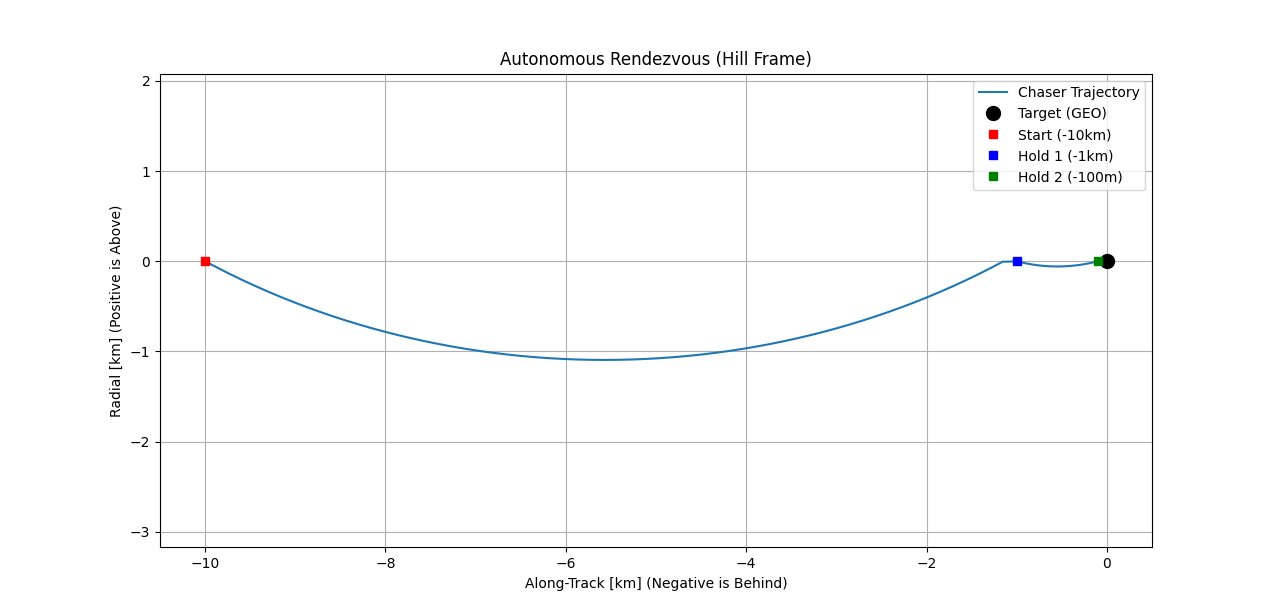
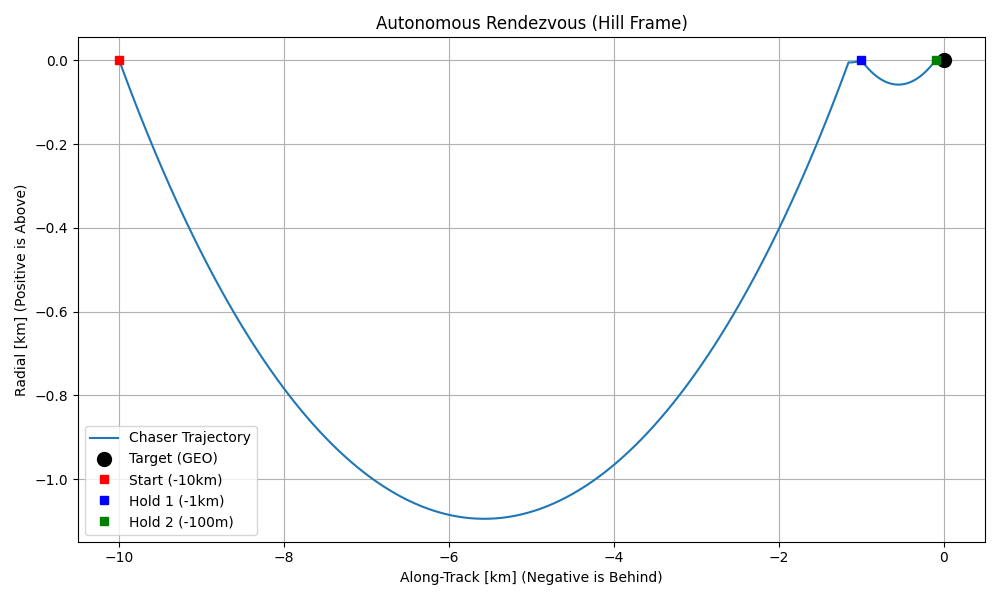
Adding visualizations.

diff --git a/examples/08_orbital_maneuvers.py b/examples/08_orbital_maneuvers.py
@@ -10,6 +10,7 @@ Scenario:
 """
 
 import numpy as np
+import matplotlib.pyplot as plt
 import sys
 import os
 
@@ -60,6 +61,45 @@ def run_example():
     print(f"Pure Circularization Burn: {dv2:.4f} km/s")
     print(f"Combined Burn Delta-V:     {dv_combined:.4f} km/s")
     print(f"Saving (vs Simple):        {(dv2 + dv_plane) - dv_combined:.4f} km/s")
+
+    # 4. Visualization
+    theta = np.linspace(0, 2*np.pi, 200)
+    
+    # Orbits
+    x_leo = r_leo * np.cos(theta)
+    y_leo = r_leo * np.sin(theta)
+    x_geo = r_geo * np.cos(theta)
+    y_geo = r_geo * np.sin(theta)
+    
+    # Transfer Ellipse (Apogee=r_geo, Perigee=r_leo)
+    a_trans = (r_leo + r_geo) / 2.0
+    e_trans = (r_geo - r_leo) / (r_geo + r_leo)
+    r_trans = a_trans * (1 - e_trans**2) / (1 + e_trans * np.cos(theta))
+    x_trans = r_trans * np.cos(theta)
+    y_trans = r_trans * np.sin(theta)
+    
+    plt.figure(figsize=(8, 8))
+    plt.plot(x_leo, y_leo, 'b--', label='Initial LEO')
+    plt.plot(x_geo, y_geo, 'g--', label='Target GEO')
+    # Filter transfer orbit to show only half (perigee at 0 to apogee at pi)
+    plt.plot(x_trans[theta <= np.pi], y_trans[theta <= np.pi], 'r', linewidth=2, label='Hohmann Transfer')
+    
+    plt.plot(r_leo, 0, 'ro', label='Burn 1')
+    plt.plot(-r_geo, 0, 'go', label='Burn 2')
+    plt.plot(0, 0, 'yo', markersize=10, label='Earth')
+    
+    plt.xlabel('X [km]')
+    plt.ylabel('Y [km]')
+    plt.title('Hohmann Transfer: LEO to GEO')
+    plt.legend()
+    plt.axis('equal')
+    plt.grid(True, alpha=0.3)
+    
+    # Save the plot to assets/
+    save_path = os.path.abspath(os.path.join(os.path.dirname(__file__), '..', 'assets', 'hohmann_transfer.png'))
+    plt.savefig(save_path)
+    print(f"Plot saved to: {save_path}")
+    plt.close()
 
 if __name__ == "__main__":
     run_example()

diff --git a/examples/09_lambert_solver.py b/examples/09_lambert_solver.py
@@ -12,6 +12,7 @@ Scenario:
 """
 
 import numpy as np
+import matplotlib.pyplot as plt
 import sys
 import os
 
@@ -50,6 +51,45 @@ def run_example():
     v_leo = np.sqrt(mu / np.linalg.norm(r_leo))
     dv = np.linalg.norm(v1 - np.array([0, v_leo, 0]))
     print(f"Departure Delta-V (from circular): {dv:.4f} km/s")
+
+    # 4. Visualization
+    # Approximate trajectory by propagating v1
+    # Simple Keplerian propagation for visualization
+    dt_plot = tof / 100
+    r_traj = [r_leo]
+    r_curr = r_leo.copy()
+    v_curr = v1.copy()
+    
+    for _ in range(100):
+        r_mag = np.linalg.norm(r_curr)
+        a = -mu / r_mag**3 * r_curr
+        v_curr += a * dt_plot
+        r_curr += v_curr * dt_plot
+        r_traj.append(r_curr.copy())
+    
+    r_traj = np.array(r_traj)
+    
+    plt.figure(figsize=(8, 8))
+    plt.plot(r_traj[:, 0], r_traj[:, 1], 'r', label='Lambert Trajectory')
+    plt.plot(r_leo[0], r_leo[1], 'ro', label='Departure (LEO)')
+    plt.plot(r_geo[0], r_geo[1], 'go', label='Arrival (GEO)')
+    
+    # Earth for scale
+    theta = np.linspace(0, 2*np.pi, 100)
+    plt.plot(6378 * np.cos(theta), 6378 * np.sin(theta), 'b', alpha=0.3, label='Earth')
+    
+    plt.xlabel('X [km]')
+    plt.ylabel('Y [km]')
+    plt.title('Lambert Transfer: LEO to GEO')
+    plt.legend()
+    plt.axis('equal')
+    plt.grid(True, alpha=0.3)
+    
+    # Save the plot to assets/
+    save_path = os.path.abspath(os.path.join(os.path.dirname(__file__), '..', 'assets', 'lambert_transfer.png'))
+    plt.savefig(save_path)
+    print(f"Plot saved to: {save_path}")
+    plt.close()
 
 if __name__ == "__main__":
     run_example()

diff --git a/examples/07_quest_estimation.py b/examples/07_quest_estimation.py
@@ -13,6 +13,7 @@ Scenario:
 """
 
 import numpy as np
+import matplotlib.pyplot as plt
 import sys
 import os
 from datetime import datetime
@@ -72,6 +73,31 @@ def run_example():
     
     error_angle = np.degrees(np.linalg.norm(euler_true - euler_est))
     print(f"Total Angular Error: {error_angle:.4f} degrees")
+    print("-" * 30)
+
+    # 4. Visualization
+    labels = ['Roll', 'Pitch', 'Yaw']
+    true_deg = np.degrees(euler_true)
+    est_deg = np.degrees(euler_est)
+    
+    plt.figure(figsize=(10, 6))
+    x = np.arange(len(labels))
+    width = 0.35
+    
+    plt.bar(x - width/2, true_deg, width, label='True Orientation')
+    plt.bar(x + width/2, est_deg, width, label='QUEST Estimated')
+    
+    plt.ylabel('Angle [deg]')
+    plt.title('QUEST Attitude Determination Performance')
+    plt.xticks(x, labels)
+    plt.legend()
+    plt.grid(True, axis='y', alpha=0.3)
+    
+    # Save the plot to assets/
+    save_path = os.path.abspath(os.path.join(os.path.dirname(__file__), '..', 'assets', 'quest_results.png'))
+    plt.savefig(save_path)
+    print(f"Plot saved to: {save_path}")
+    plt.close()
 
 if __name__ == "__main__":
     run_example()

diff --git a/examples/04_autonomous_rendezvous.py b/examples/04_autonomous_rendezvous.py
@@ -200,10 +200,10 @@ def simulation():
     ax.set_title('Autonomous Rendezvous (Hill Frame)')
     ax.grid(True)
     ax.legend()
-    ax.axis('equal') # Important for geometry
-    
-    # Inset for Cross Track? Or seperate plot
-    # Let's verify Z deviation zeroed out
+    plt.tight_layout()
+    save_path_traj = os.path.abspath(os.path.join(os.path.dirname(__file__), '..', 'assets', 'rendezvous.png'))
+    plt.savefig(save_path_traj)
+    print(f"Rendezvous plot saved to: {save_path_traj}")
     
     plt.figure()
     plt.plot(traj_t, traj_r[:, 2])
@@ -212,9 +212,13 @@ def simulation():
     plt.title('Cross-Track Motion')
     plt.grid(True)
     
+    save_path_cross = os.path.abspath(os.path.join(os.path.dirname(__file__), '..', 'assets', 'cross_track.png'))
+    plt.savefig(save_path_cross)
+    print(f"Cross-track plot saved to: {save_path_cross}")
+
     print(f"Total Delta-V: {sum([np.linalg.norm(m[1]) for m in maneuvers])*1000:.2f} m/s")
     
-    plt.show()
+    plt.close('all')
 
 if __name__ == "__main__":
     simulation()

diff --git a/examples/05_attitude_estimation_mekf.py b/examples/05_attitude_estimation_mekf.py
@@ -170,7 +170,11 @@ def simulation():
     ax[1].legend(loc='right')
     
     plt.tight_layout()
-    plt.show()
+    # Save the plot to assets/
+    save_path = os.path.abspath(os.path.join(os.path.dirname(__file__), '..', 'assets', 'attitude_est.png'))
+    plt.savefig(save_path)
+    print(f"Plot saved to: {save_path}")
+    plt.close()
 
 if __name__ == "__main__":
     simulation()

diff --git a/examples/02_vleo_orbit_maintenance.py b/examples/02_vleo_orbit_maintenance.py
@@ -198,7 +198,11 @@ def simulation():
     ax[2].grid(True)
     
     plt.tight_layout()
-    plt.show()
+    # Save the plot to assets/
+    save_path = os.path.abspath(os.path.join(os.path.dirname(__file__), '..', 'assets', 'vleo_maintenance.png'))
+    plt.savefig(save_path)
+    print(f"Plot saved to: {save_path}")
+    plt.close()
 
 if __name__ == "__main__":
     simulation()

diff --git a/examples/06_ukf_attitude_estimation.py b/examples/06_ukf_attitude_estimation.py
@@ -126,7 +126,11 @@ def run_example():
     plt.grid(True)
     
     plt.tight_layout()
-    plt.show()
+    # Save the plot to assets/
+    save_path = os.path.abspath(os.path.join(os.path.dirname(__file__), '..', 'assets', 'ukf_attitude.png'))
+    plt.savefig(save_path)
+    print(f"Plot saved to: {save_path}")
+    plt.close()
 
 if __name__ == "__main__":
     run_example()

diff --git a/examples/01_cubesat_detumbling.py b/examples/01_cubesat_detumbling.py
@@ -205,7 +205,11 @@ def simulation():
     ax[2].grid(True)
     
     plt.tight_layout()
-    plt.show()
+    # Save the plot to assets/
+    save_path = os.path.abspath(os.path.join(os.path.dirname(__file__), '..', 'assets', 'detumbling.png'))
+    plt.savefig(save_path)
+    print(f"Plot saved to: {save_path}")
+    plt.close()
 
 if __name__ == "__main__":
     simulation()

diff --git a/examples/03_momentum_dumping.py b/examples/03_momentum_dumping.py
@@ -166,7 +166,11 @@ def simulation():
     ax[2].legend()
     
     plt.tight_layout()
-    plt.show()
+    # Save the plot to assets/
+    save_path = os.path.abspath(os.path.join(os.path.dirname(__file__), '..', 'assets', 'dumping.png'))
+    plt.savefig(save_path)
+    print(f"Plot saved to: {save_path}")
+    plt.close()
 
 if __name__ == "__main__":
     simulation()

diff --git a/README.md b/README.md
@@ -68,10 +68,10 @@ The [examples/](examples/) directory contains demonstration scripts showcasing h
 | :--- | :--- |
 | **Autonomous Rendezvous**<br>Precise multi-burn approach in GEO using Clohessy-Wiltshire relative targeting. | ![Autonomous Rendezvous](assets/rendezvous.png)<br>[04_autonomous_rendezvous.py](examples/04_autonomous_rendezvous.py) |
 | **VLEO Orbit Maintenance**<br>Maintaining altitude in high-drag environments using electric propulsion and hysteresis logic. | ![VLEO Orbit Maintenance](assets/vleo_maintenance.png)<br>[02_vleo_orbit_maintenance.py](examples/02_vleo_orbit_maintenance.py) |
-| **UKF Attitude Estimation**<br>Advanced orientation tracking using Unscented Kalman Filter for nonlinear systems. | [06_ukf_attitude_estimation.py](examples/06_ukf_attitude_estimation.py) |
-| **QUEST Determination**<br>Deterministic attitude solution from vector measurements. | [07_quest_estimation.py](examples/07_quest_estimation.py) |
-| **Orbital Maneuvers**<br>Hohmann transfer and plane change calculation. | [08_orbital_maneuvers.py](examples/08_orbital_maneuvers.py) |
-| **Lambert Solver**<br>Orbit targeting between two points. | ![Lambert Solver](assets/cross_track.png)<br>[09_lambert_solver.py](examples/09_lambert_solver.py) |
+| **UKF Attitude Estimation**<br>Advanced orientation tracking using Unscented Kalman Filter for nonlinear systems. | ![UKF Attitude Estimation](assets/ukf_attitude.png)<br>[06_ukf_attitude_estimation.py](examples/06_ukf_attitude_estimation.py) |
+| **QUEST Determination**<br>Deterministic attitude solution from vector measurements. | ![QUEST Determination](assets/quest_results.png)<br>[07_quest_estimation.py](examples/07_quest_estimation.py) |
+| **Orbital Maneuvers**<br>Hohmann transfer and plane change calculation. | ![Orbital Maneuvers](assets/hohmann_transfer.png)<br>[08_orbital_maneuvers.py](examples/08_orbital_maneuvers.py) |
+| **Lambert Solver**<br>Orbit targeting between two points. | ![Lambert Solver](assets/lambert_transfer.png)<br>[09_lambert_solver.py](examples/09_lambert_solver.py) |
 
 ## Project Overview
 

diff --git a/examples/README.md b/examples/README.md
@@ -55,3 +55,39 @@ This directory contains a suite of high-fidelity simulations designed to showcas
 *   **Analysis:** Verification of estimation consistency (Error vs. 3-sigma bounds).
 
 ![MEKF Attitude Estimation](../assets/attitude_est.png)
+
+## 6. Attitude Estimation with UKF (Navigation)
+**Script:** `06_ukf_attitude_estimation.py`
+**Scenario:** Using the Unscented Kalman Filter for orientation tracking in highly nonlinear regimes.
+**GNC Focus:**
+*   **Filter:** `UKF_Attitude` handling large initial errors and nonlinear measurement models.
+*   **Sensors:** Fusing multiple star tracker vector observations.
+
+![UKF Attitude Estimation](../assets/ukf_attitude.png)
+
+## 7. Deterministic Attitude Determination (QUEST)
+**Script:** `07_quest_estimation.py`
+**Scenario:** Finding the optimal attitude from simultaneous vector observations (Sun + Mag).
+**GNC Focus:**
+*   **Algorithm:** `QUEST` for deterministic inertial-to-body calculation.
+*   **Sensors:** `SunSensor` and `Magnetometer`.
+
+![QUEST Performance](../assets/quest_results.png)
+
+## 8. Orbital Maneuvers (Guidance)
+**Script:** `08_orbital_maneuvers.py`
+**Scenario:** Classic mission planning maneuvers: Hohmann Transfer and Plane Changes.
+**GNC Focus:**
+*   **Guidance:** Delta-V calculation for LEO-to-GEO transfers.
+*   **Efficiency:** Combined burned logic for fuel optimization.
+
+![Hohmann Transfer](../assets/hohmann_transfer.png)
+
+## 9. Lambert Solver (Guidance)
+**Script:** `09_lambert_solver.py`
+**Scenario:** Orbit targeting between two arbitrary positions in a fixed time of flight.
+**GNC Focus:**
+*   **Guidance:** Solving the multi-revolution Lambert problem.
+*   **Application:** Interplanetary or long-range intercept targeting.
+
+![Lambert Transfer](../assets/lambert_transfer.png)
